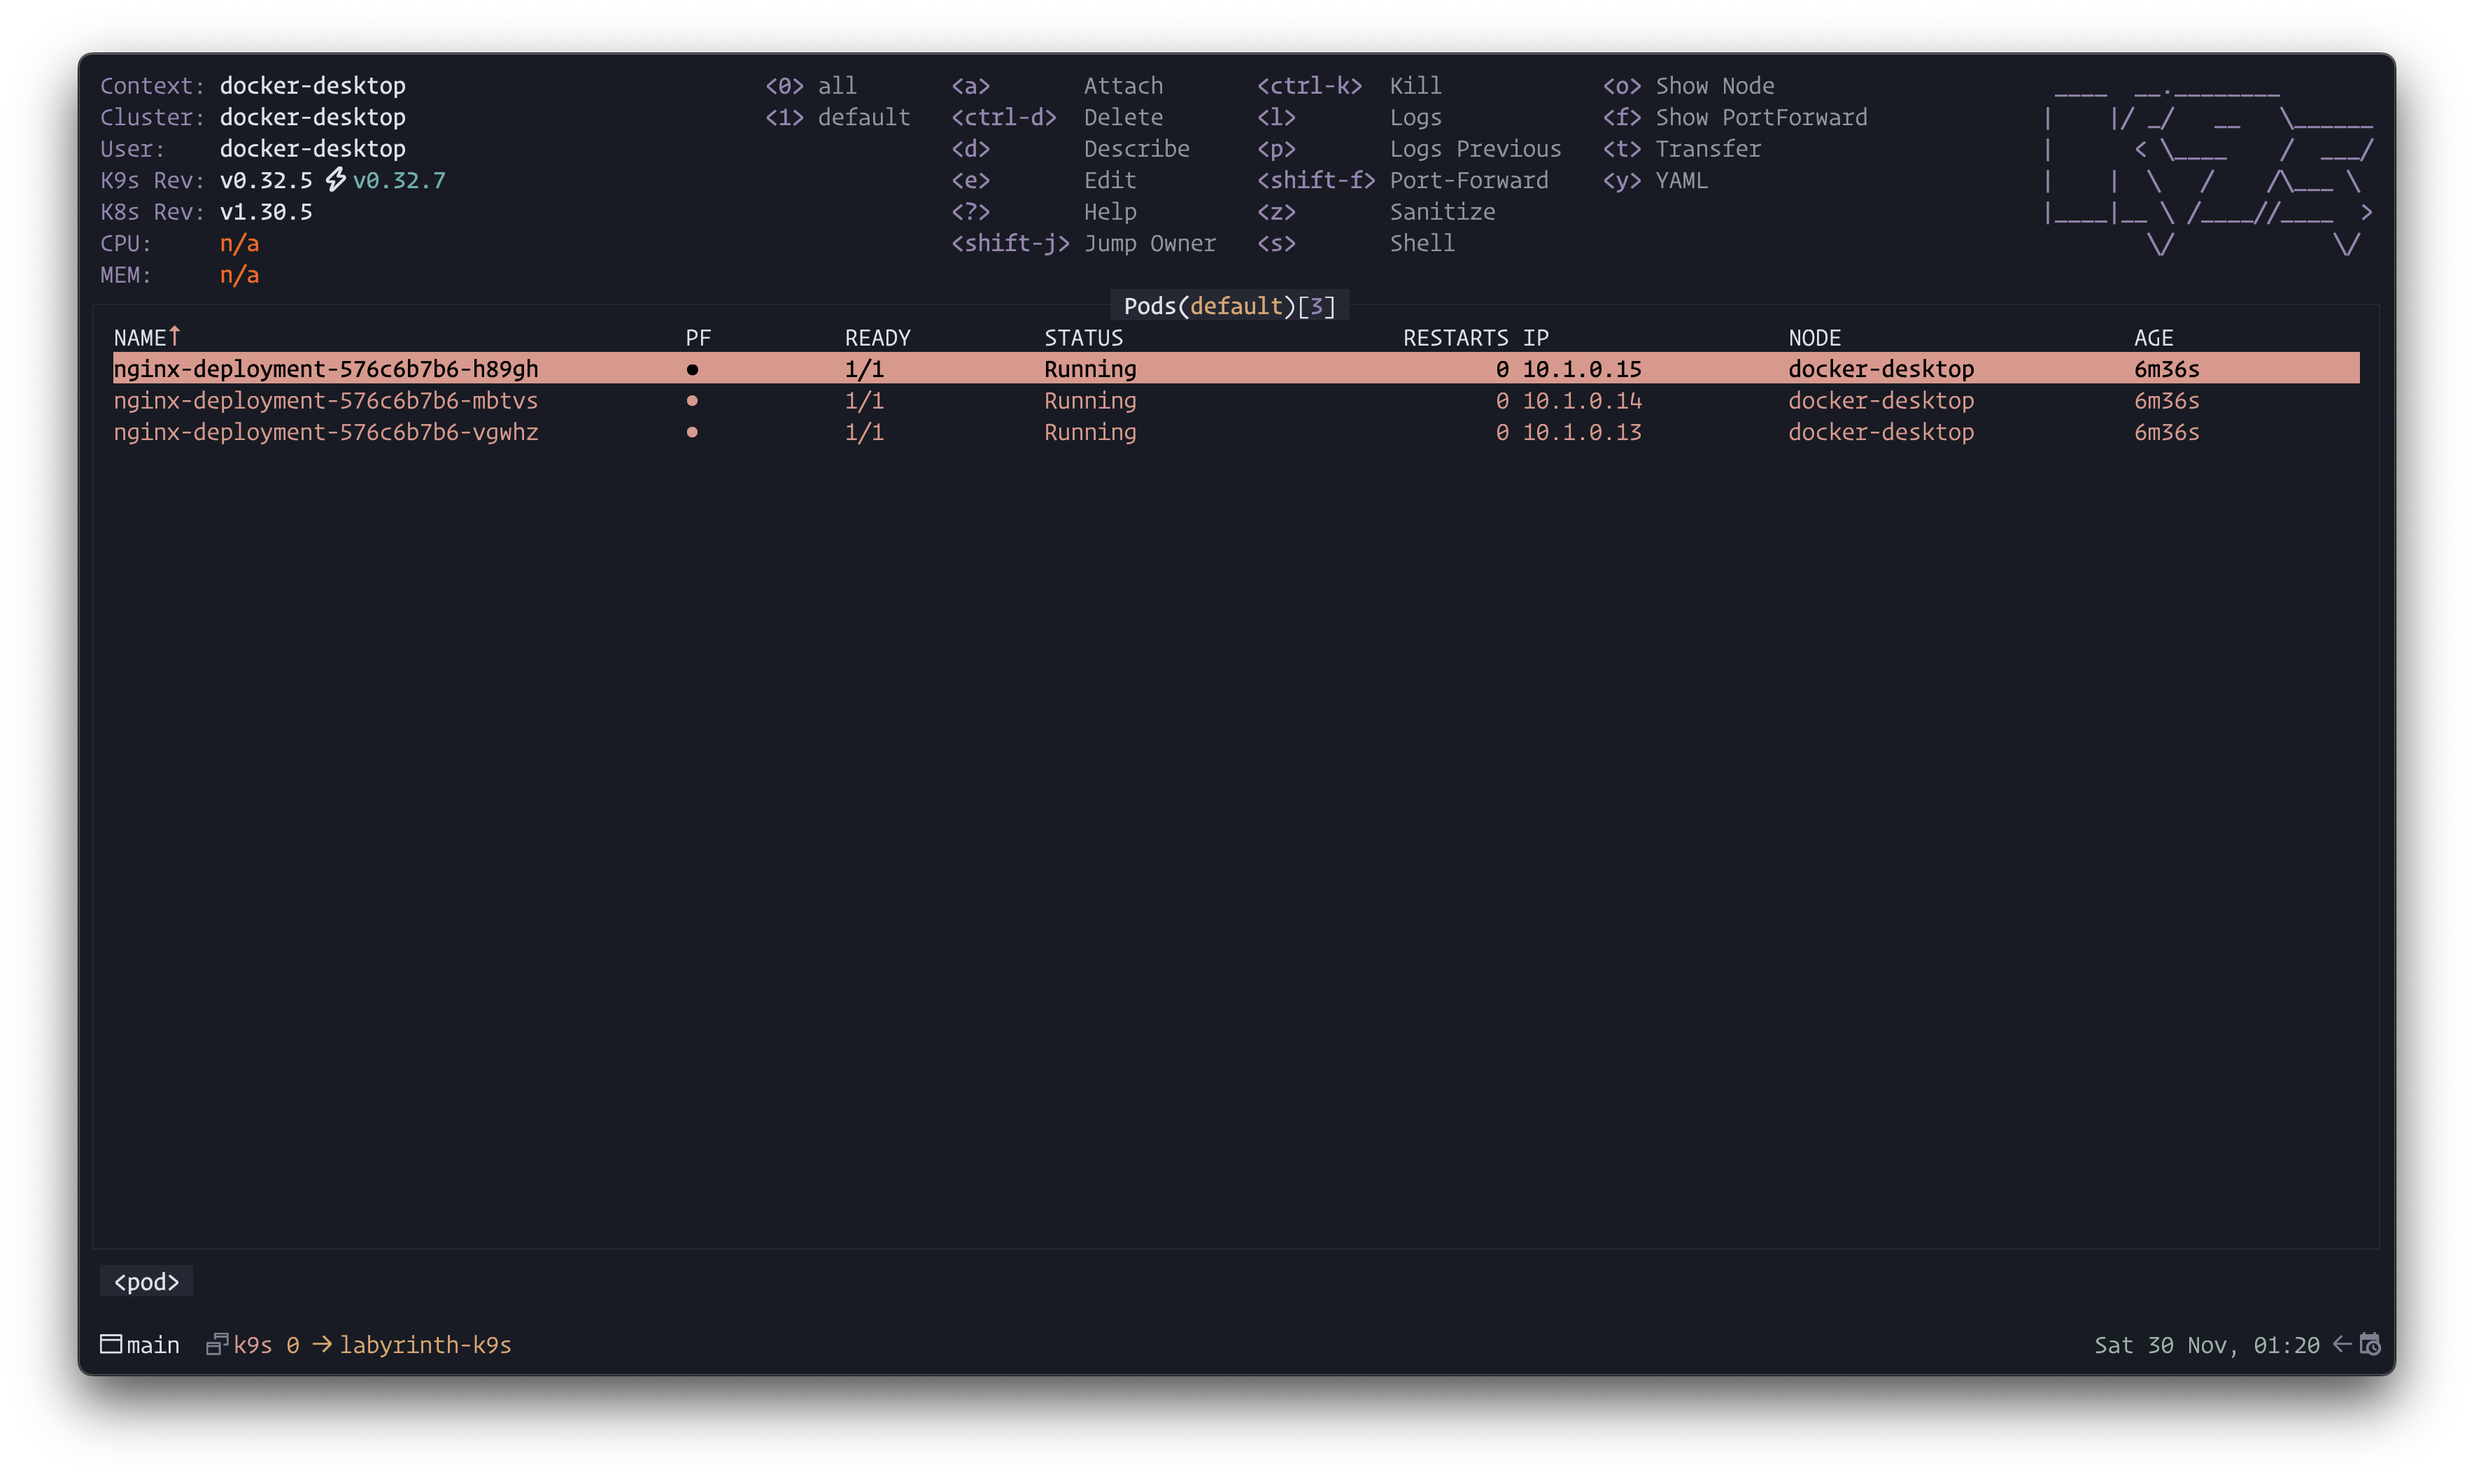
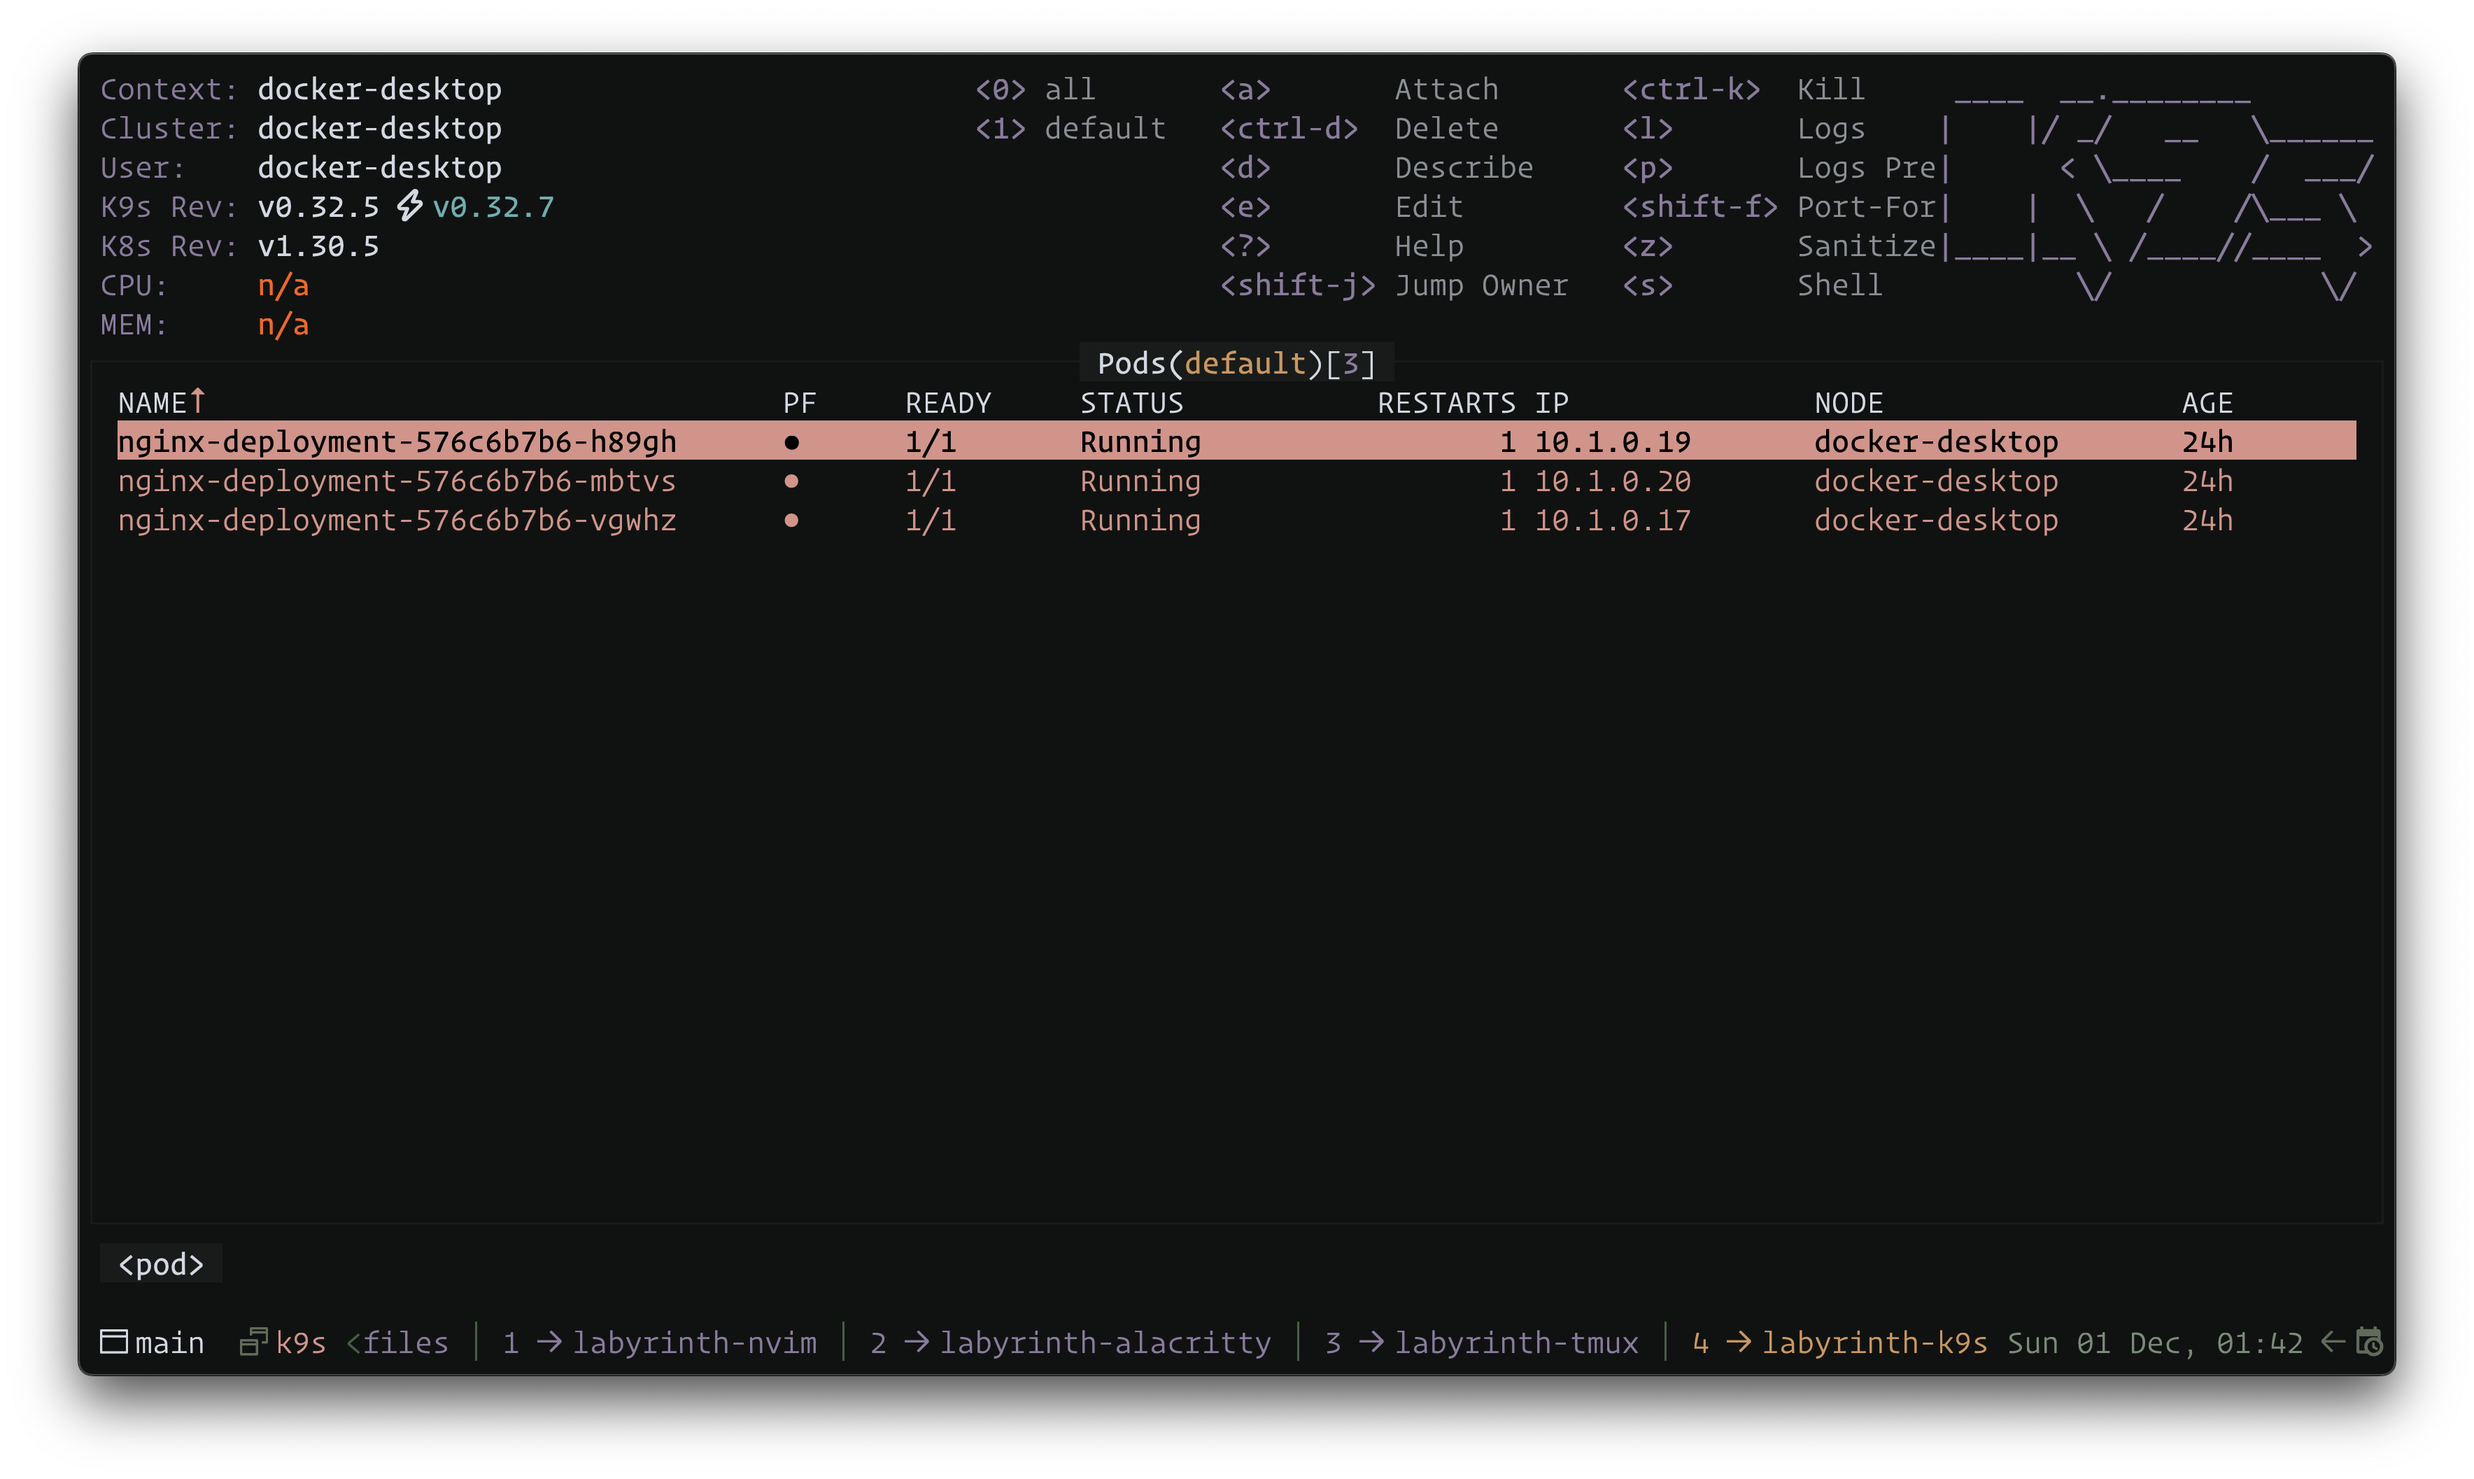
update colorscheme

diff --git a/README.md b/README.md
@@ -6,7 +6,6 @@ Labyrinth provides four distinct variants with varying levels of contrast and co
 
  - **Gloom**: The most contrasty variant, perfect for those who prefer sharp distinctions and vibrant colors.
  - **Dusk**: A balanced variant, offering a comfortable middle ground with moderate contrast and vibrancy.
- - **Shade**: A softer variant with reduced contrast, ideal for a more subdued and relaxed visual experience.
  - **Mist**: The least contrasty variant, featuring the most gentle and subtle tones for a calm and unobtrusive interface.
 
 Whether you're coding, designing, or simply exploring new aesthetics, Labyrinth adapts to your needs with its harmonious palette.
@@ -28,10 +27,6 @@ Whether you're coding, designing, or simply exploring new aesthetics, Labyrinth 
 **Labyrinth Dusk**
 
 ![k9s with Labyrinth Dusk](assets/dusk.png)
-
-**Labyrinth Shade**
-
-![k9s with Labyrinth Shade](assets/shade.png)
 
 **Labyrinth Mist**
 
